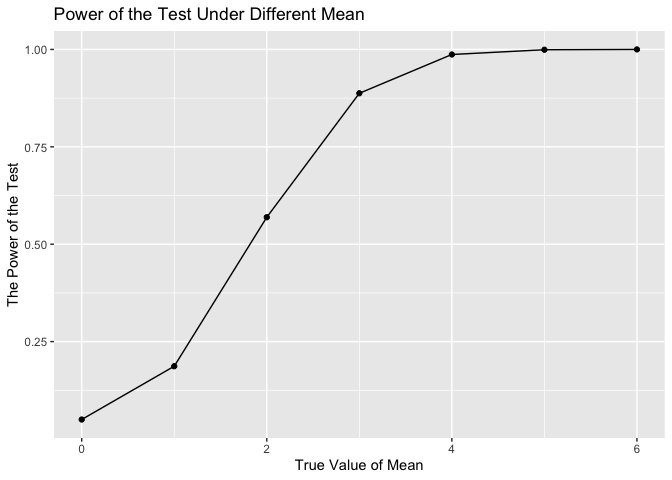
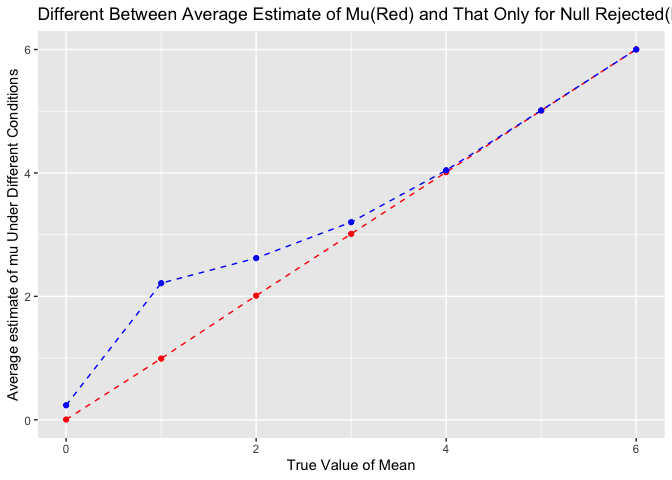
problem 3

diff --git a/p8105_hw5_hn2453.md b/p8105_hw5_hn2453.md
@@ -19,6 +19,9 @@ library(tidyverse)
 
 ``` r
 library(ggplot2)
+library(readr)
+library(dplyr)
+library(purrr)
 set.seed(1)
 ```
 
@@ -101,15 +104,6 @@ sim_t_test = function(mu, n=30, sigma=5, alpha=0.05) {
 }
 ```
 
-``` r
-sim_t_test(mu=6)
-```
-
-    ## # A tibble: 1 × 2
-    ##   estimate    p_value
-    ##      <dbl>      <dbl>
-    ## 1     4.38 0.00000752
-
 Complete 5000 simulations for mu value from 0 to 6.
 
 ``` r
@@ -125,7 +119,7 @@ t_test_mu = map(mu_set, ~{
   
   power = mean(p_values < alpha)
   
-  rejected_estimate = mean(estimates[p_values<alpha])
+  rejected_estimate = mean(estimates[p_values < alpha])
   
   tibble(mu = .x, power = power,estimate = mean(estimates),rejected_estimate = rejected_estimate)
 })
@@ -140,7 +134,7 @@ t_test_result
     ## # A tibble: 7 × 4
     ##      mu power estimate rejected_estimate
     ##   <int> <dbl>    <dbl>             <dbl>
-    ## 1     0 0.05   0.00545             0.236
+    ## 1     0 0.05   0.00500             0.236
     ## 2     1 0.187  0.992               2.21 
     ## 3     2 0.569  2.01                2.62 
     ## 4     3 0.887  3.01                3.20 
@@ -160,7 +154,7 @@ ggplot(t_test_result, aes(x = mu, y = power))+
        y = "The Power of the Test")
 ```
 
-![](p8105_hw5_hn2453_files/figure-gfm/unnamed-chunk-9-1.png)<!-- -->
+![](p8105_hw5_hn2453_files/figure-gfm/unnamed-chunk-8-1.png)<!-- -->
 From the plot, we can get that with the increase of population mean, the
 power of the test(the proportion of times the null of mu=0 was rejected)
 increasing and when the mu = 6, the value of power reaches 1.
@@ -174,16 +168,102 @@ ggplot(t_test_result, aes(x = mu))+
   geom_line(aes(y=estimate),color = "red",linetype = "dashed")+
   geom_point(aes(y=rejected_estimate),color = "blue")+
   geom_line(aes(y=rejected_estimate),color = "blue",linetype="dashed")+
-  labs(title = "Different between average estimate of mu(red) and that only for null rejected(blue)",
+  labs(title = "Different Between Average Estimate of Mu(Red) and That Only for Null Rejected(Blue)",
        x = "True Value of Mean",
        y = "Average estimate of mu Under Different Conditions",
       )
 ```
 
-![](p8105_hw5_hn2453_files/figure-gfm/unnamed-chunk-10-1.png)<!-- -->
+![](p8105_hw5_hn2453_files/figure-gfm/unnamed-chunk-9-1.png)<!-- -->
 From the plot, we can get that the average estimate of mu only in
 samples for which the null was rejected is larger than average estimate
 of mu when mu is 1 or 2 or 3, and they are similar when mu is 0 4 or 5
 or 6. It’s reasonable, connect with previous plot, when mu larger than
 4, the power similar to 1. These two variables become same
 approximately.
+
+## Problem 3
+
+The raw dataset have 12 variables and 52179 rows. Variables includes
+uid, reported_date, victim_last, victim_first, victim_race, victim_age,
+victim_sex, city, state, lat, lon, disposition.
+
+``` r
+homicide = read_csv("data/homicide-data.csv") |>
+  janitor::clean_names()
+```
+
+    ## Rows: 52179 Columns: 12
+    ## ── Column specification ────────────────────────────────────────────────────────
+    ## Delimiter: ","
+    ## chr (9): uid, victim_last, victim_first, victim_race, victim_age, victim_sex...
+    ## dbl (3): reported_date, lat, lon
+    ## 
+    ## ℹ Use `spec()` to retrieve the full column specification for this data.
+    ## ℹ Specify the column types or set `show_col_types = FALSE` to quiet this message.
+
+Create a city_state variable and then summarize within cities to obtain
+the total number of homicides and the number of unsolved homicides
+
+``` r
+homicide_1 = homicide |>
+  mutate(city_state = paste(city, state, sep = ", "))|>
+  group_by(city_state)|>
+  summarise(
+    total_homicide = n(),
+    unsolved_homicide = sum(disposition %in% c("Closed without arrest","Open/No arrest"))
+  )
+```
+
+For the city of Baltimore, MD, use the prop.test function to estimate
+the proportion of homicides that are unsolved
+
+``` r
+homicide_Bal = homicide_1|>
+  filter(city_state=="Baltimore, MD")
+
+bal_prop_test = prop.test(homicide_Bal$unsolved_homicide,homicide_Bal$total_homicide)
+
+tidy_bal = tidy(bal_prop_test)
+
+tidy_bal
+```
+
+    ## # A tibble: 1 × 8
+    ##   estimate statistic  p.value parameter conf.low conf.high method    alternative
+    ##      <dbl>     <dbl>    <dbl>     <int>    <dbl>     <dbl> <chr>     <chr>      
+    ## 1    0.646      239. 6.46e-54         1    0.628     0.663 1-sample… two.sided
+
+Thus, the estimated proportion is 0.6455607 and the confidence interval
+is \[0.6275625, 0.6631599\].
+
+Run prop.test for each of the cities in your dataset, and extract both
+the proportion of unsolved homicides and the confidence interval for
+each.
+
+``` r
+homicide_prop = homicide_1 |>
+  mutate(
+    prop_test = map2(unsolved_homicide, total_homicide, ~prop.test(.x, .y)))|>
+  mutate(tidy_homicide = map(prop_test,tidy))|>
+  unnest(tidy_homicide)|>
+  select(city_state, estimate, conf.low, conf.high)|>
+  arrange(estimate)|>
+  filter(city_state != "Tulsa, AL")
+```
+
+Find the total_homicide of Tulsa, AL is 1, cannot use prop.test in this
+case. Thus, remove it from dataset.
+
+Create a plot that shows the estimates and CIs for each city.
+
+``` r
+ggplot(data = homicide_prop, aes(x = reorder(city_state,estimate), y= estimate))+
+  geom_point()+
+  geom_errorbar(aes(ymin = conf.low, ymax = conf.high))+
+  coord_flip()+
+  labs(x = "City",
+       y = "Proportion of Unsolved Homicides with CI")
+```
+
+![](p8105_hw5_hn2453_files/figure-gfm/unnamed-chunk-14-1.png)<!-- -->
